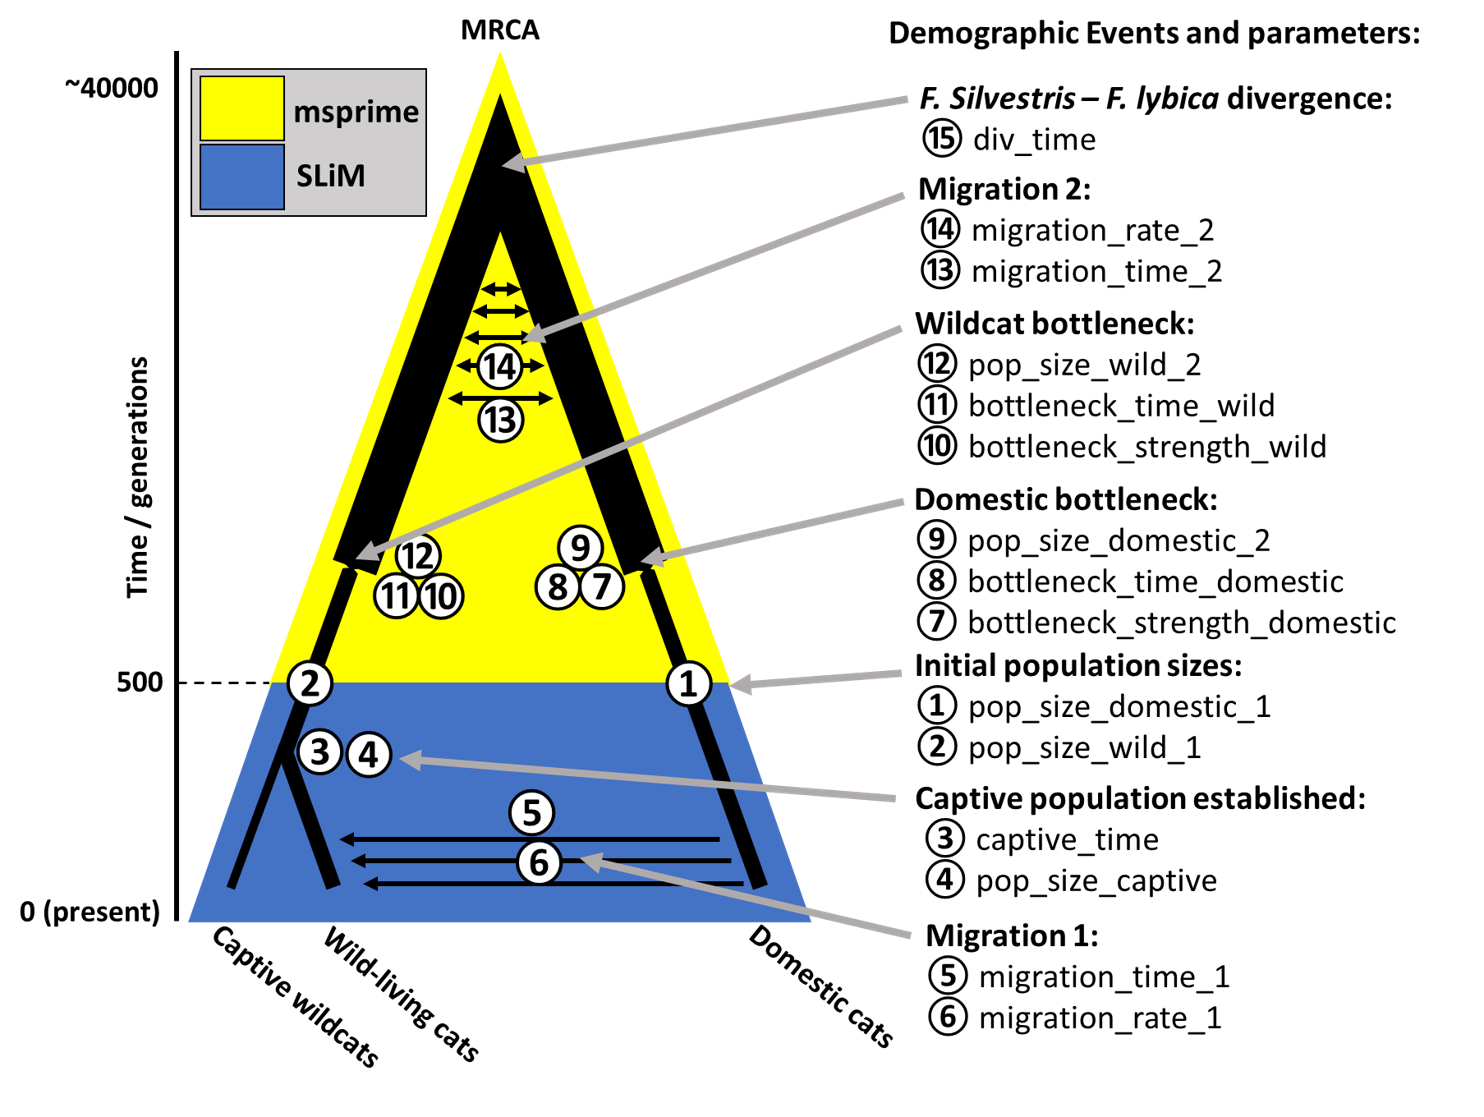
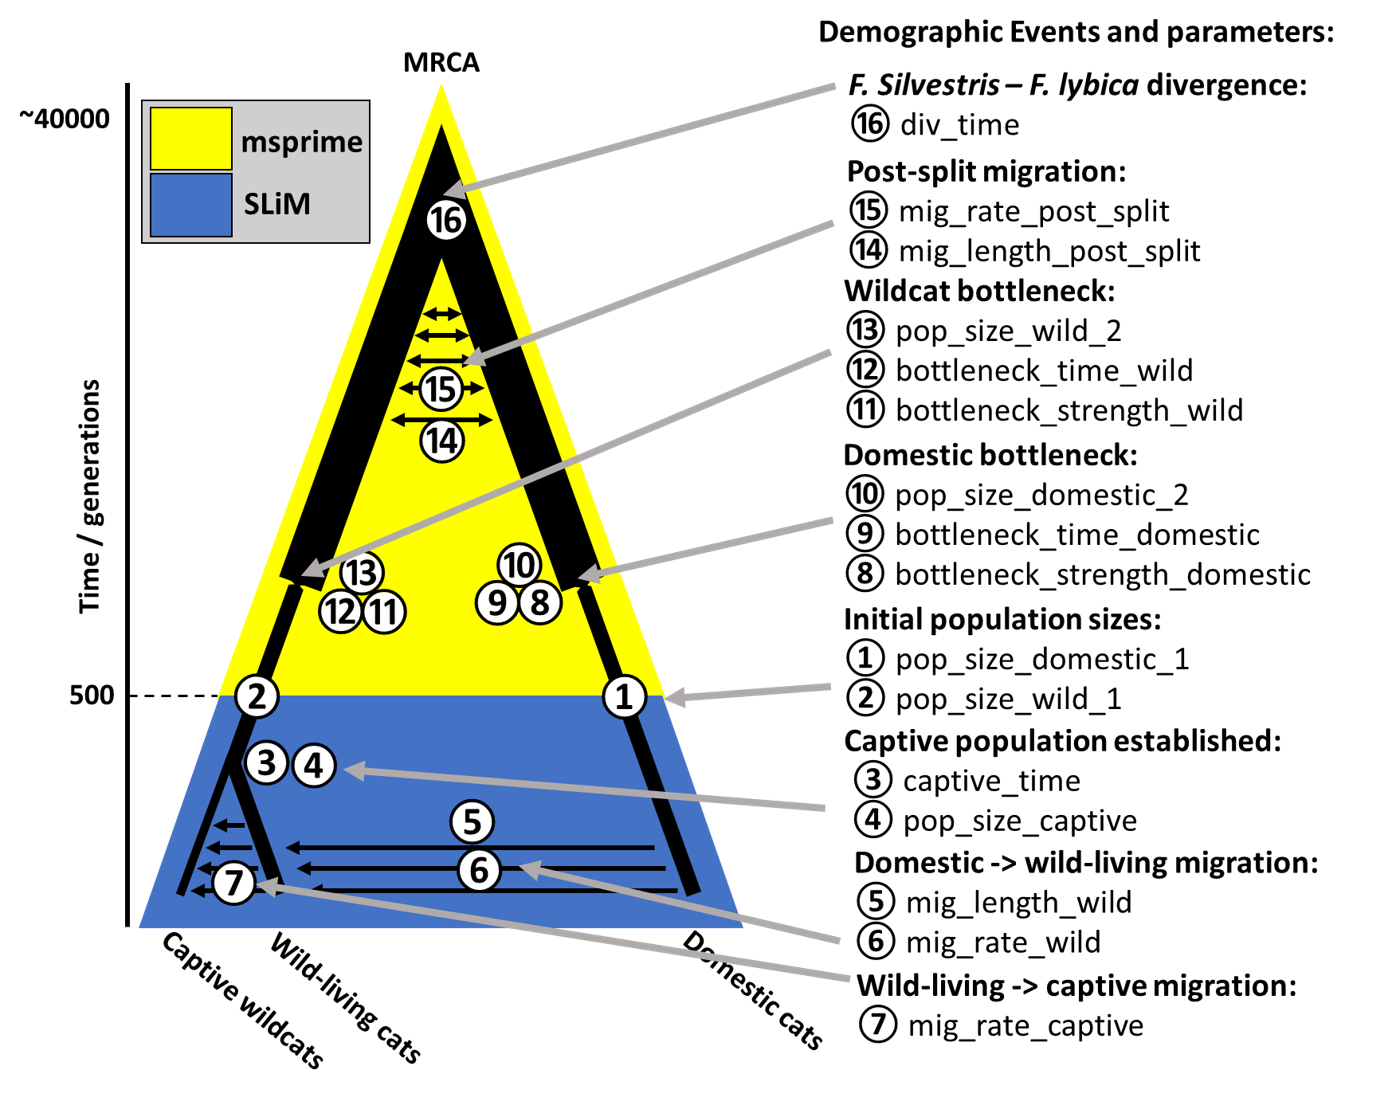
Update model schematic and priors

Changed region(s): [[0.0, 0.0, 0.9549, 0.974]]

diff --git a/scripts/priors.py b/scripts/priors.py
@@ -6,14 +6,14 @@ import matplotlib.pyplot as plt
 import seaborn as sns
 from sim.utils import test_prior
 
-np.random.seed(2)
+np.random.seed(42)
 
 # Set up distributions.
 dist = {
     "pop_size_domestic_1": ss.uniform(100, 10000),  # ss.uniform(100, 15000),
     "pop_size_wild_1": ss.lognorm(0.4, scale=np.exp(8)),  # ss.lognorm(0.4, scale=np.exp(8.5)),
-    "pop_size_captive": ss.lognorm(0.5, scale=np.exp(4.5)),
-    "mig_rate_captive": ss.beta(2, 50),
+    "pop_size_captive": ss.lognorm(0.3, scale=np.exp(4.5)),
+    "mig_rate_captive": ss.beta(1.2, 40),
     "captive_time": ss.lognorm(0.7, scale=np.exp(3)),
     "mig_length_wild": ss.lognorm(0.7, scale=np.exp(3)),
     "mig_rate_wild": ss.beta(2, 50),
@@ -24,7 +24,7 @@ dist = {
     "bottleneck_time_wild": ss.norm(3500, 600),
     "pop_size_wild_2": ss.lognorm(0.2, scale=np.exp(8.8)),  #  ss.lognorm(0.2, scale=np.exp(9.2)),
     "mig_length_post_split": ss.uniform(0, 10000),
-    "mig_rate_post_split": ss.truncnorm(0, 1, scale=0.03),
+    "mig_rate_post_split": ss.truncnorm(0, 1, scale=0.1),
     "div_time": ss.norm(40000, 5000),
 }
 

diff --git a/scripts/run_simulation_parallel.py b/scripts/run_simulation_parallel.py
@@ -15,7 +15,7 @@ end_index = start_index+runs_per_task
 
 prior_df = pd.read_feather("../output/prior.feather")
 
-float_col_names = ["mig_rate_wild", "mig_rate_post_split"]
+float_col_names = [col for col in list(prior_df) if "mig_rate" in col]
 int_col_names = [x for x in list(prior_df) if x not in float_col_names]
 prior_df[int_col_names] = prior_df[int_col_names].astype(int)
 

diff --git a/README.md b/README.md
@@ -4,7 +4,7 @@
 
 Scottish wildcats have undergone extensive hybridisation with domestic cats. This hybridisation has become so extensive that Scottish wildcats are at risk of being "swamped" by the domestic cats, effectively making the Scottish wildcats extinct.
 
-My masters project involves using Approximate Bayesian Computation to better understand wildcat evolution and hybridisation with the domestic cat. Approximate Bayesian Computation is a likelihood-free method of inference that relies on simulating datasets with parameter values drawn from priors. The distance between the simulated datasets and an observed dataset is used to estimate the posterior distribution of parameter values. Summary statistics are used for these distance comparisons to improve computational efficiency.
+This project involves using Approximate Bayesian Computation to better understand wildcat evolution and hybridisation with the domestic cat. Approximate Bayesian Computation is a likelihood-free method of inference that relies on simulating datasets with parameter values drawn from priors. The distance between the simulated datasets and an observed dataset is used to estimate the posterior distribution of parameter values. Summary statistics are used for these distance comparisons to improve computational efficiency.
 
 ### The model of wildcat evolution
 
